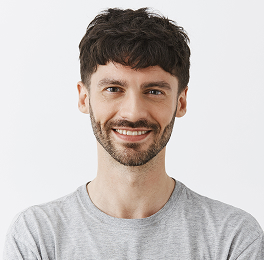
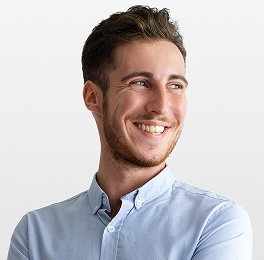
final

diff --git a/css/mobile-menu.css b/css/mobile-menu.css
@@ -89,8 +89,8 @@
 
 .mobile-menu-phone {
   font-weight: 500;
-  font-size: 24px;
-  line-height: 1.17;
+  font-size: 20px;
+  line-height: 1.2;
   letter-spacing: 0.02em;
 
   color: #4d5ae5;
